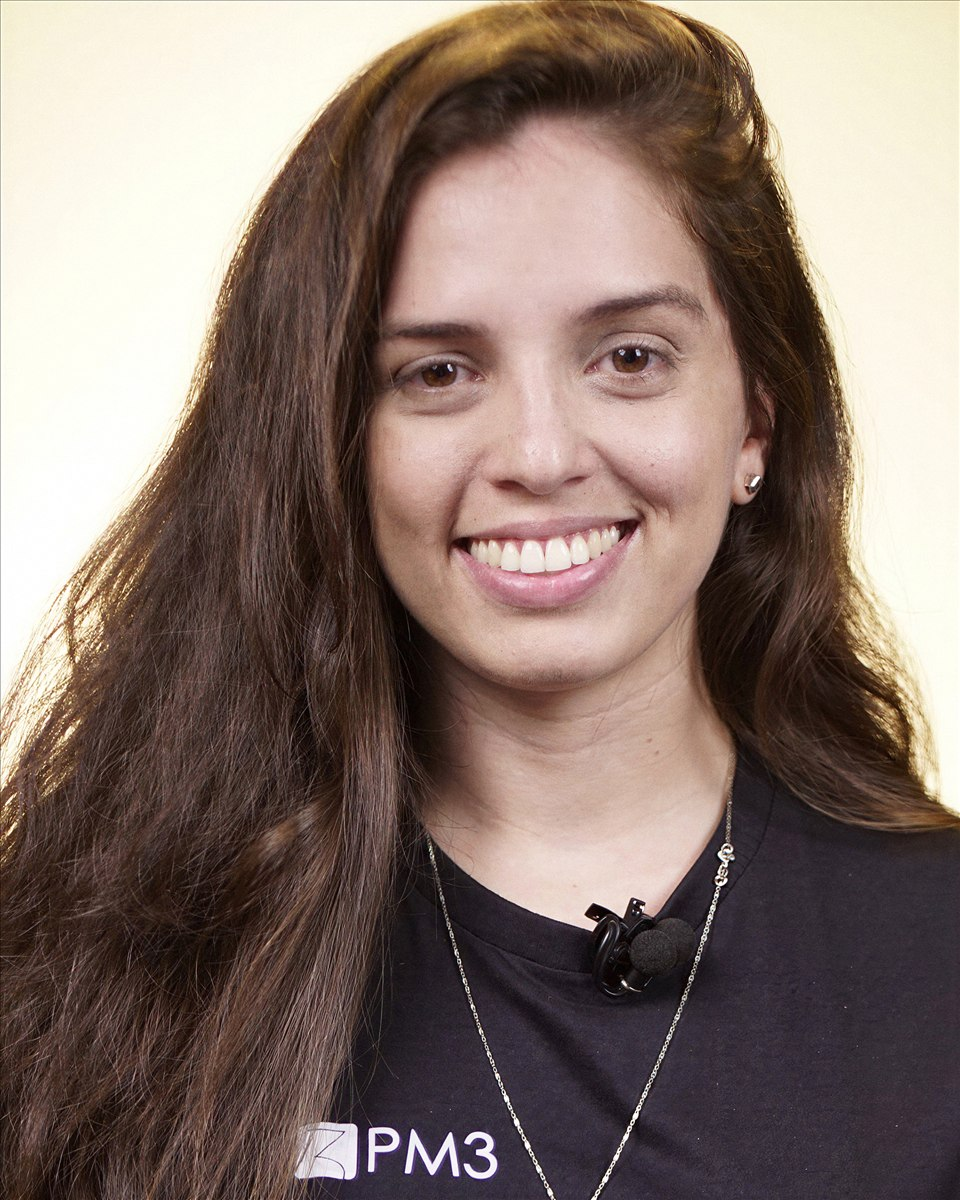
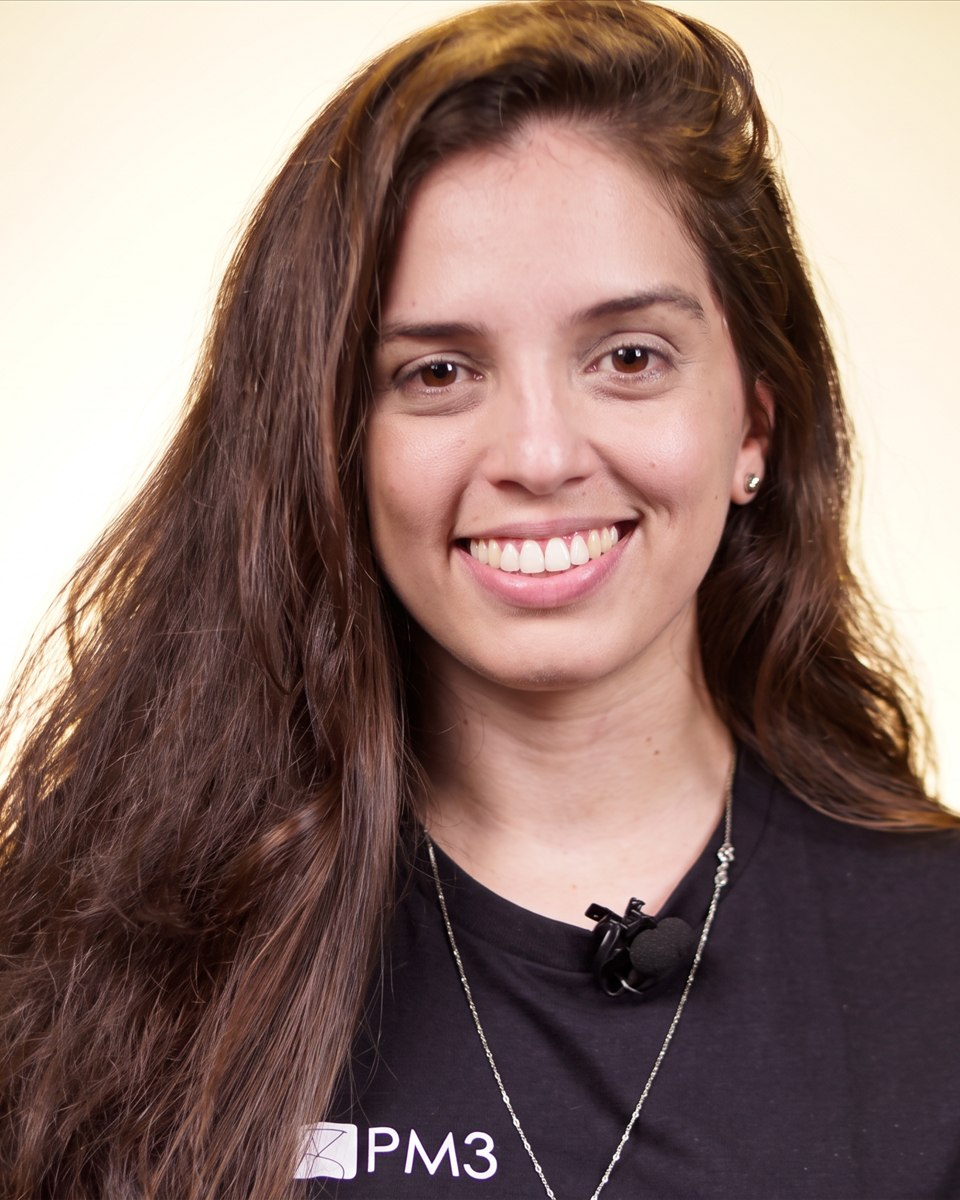
Instrutores: foto da Bianca Santa Cruz restaurada a partir do original (aprovada)

diff --git a/formacao-product-manager.html b/formacao-product-manager.html
@@ -220,7 +220,7 @@
       <figure class="prof"><div class="ph"><img src="assets/people/maria-luisa-cantadori.jpg?v=3" alt="Foto de Maria Luisa Cantadori" loading="lazy" width="480" height="600"><span class="co co-logo"><img src="assets/logos/stripe.svg" alt="Stripe" style="height:20px"></span></div><figcaption><b>Maria Luisa Cantadori</b><span>Senior Product Manager</span></figcaption></figure>
       <figure class="prof"><div class="ph"><img src="assets/people/loren-monteiro.jpg?v=4" alt="Foto de Loren Monteiro" loading="lazy" width="480" height="600"><span class="co">Adevinta</span></div><figcaption><b>Loren Monteiro</b><span>CPO Adevinta Benelux</span></figcaption></figure>
       <figure class="prof"><div class="ph"><img src="assets/people/giovanni-piton.jpg?v=2" alt="Foto de Giovanni Piton" loading="lazy" width="480" height="600"><span class="co co-logo"><img src="assets/logos/by-aliens.png" alt="By Aliens" style="height:28px"></span></div><figcaption><b>Giovanni Piton</b><span>Game Director &amp; Market Intelligence Lead</span></figcaption></figure>
-      <figure class="prof"><div class="ph"><img src="assets/people/bianca-santa-cruz.jpg?v=3" alt="Foto de Bianca Santa Cruz" loading="lazy" width="480" height="600"><span class="co">Grupo Boticário</span></div><figcaption><b>Bianca Santa Cruz</b><span>Head of Product</span></figcaption></figure>
+      <figure class="prof"><div class="ph"><img src="assets/people/bianca-santa-cruz.jpg?v=4" alt="Foto de Bianca Santa Cruz" loading="lazy" width="480" height="600"><span class="co">Grupo Boticário</span></div><figcaption><b>Bianca Santa Cruz</b><span>Head of Product</span></figcaption></figure>
       <figure class="prof"><div class="ph"><img src="assets/people/rodrigo-iannuzzi.jpg?v=2" alt="Foto de Rodrigo Iannuzzi" loading="lazy" width="480" height="600"><span class="co co-logo"><img src="assets/logos/picpay.svg" alt="PicPay" style="height:16px"></span></div><figcaption><b>Rodrigo Iannuzzi</b><span>Gerente Executivo, Novos Produtos PJ</span></figcaption></figure>
       <figure class="prof"><div class="ph"><img src="assets/people/marcela-schlaepfer.jpg?v=3" alt="Foto de Marcela Schlaepfer" loading="lazy" width="480" height="600"><span class="co">VTEX</span></div><figcaption><b>Marcela Schlaepfer</b><span>Director of Tech Planning &amp; Operations</span></figcaption></figure>
       <figure class="prof"><div class="ph"><img src="assets/people/raphael-albino.jpg?v=2" alt="Foto de Raphael Albino" loading="lazy" width="480" height="600"><span class="co co-logo"><img src="assets/logos/nubank.svg" alt="Nubank" style="height:15px"></span></div><figcaption><b>Raphael Albino</b><span>Interim General Manager</span></figcaption></figure>
